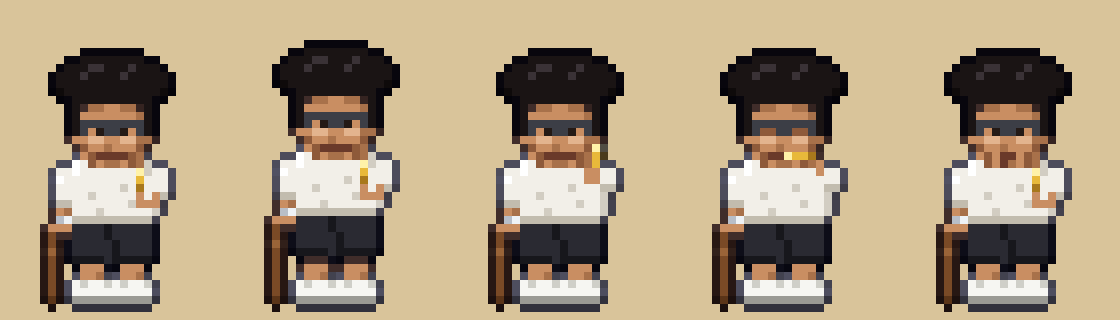
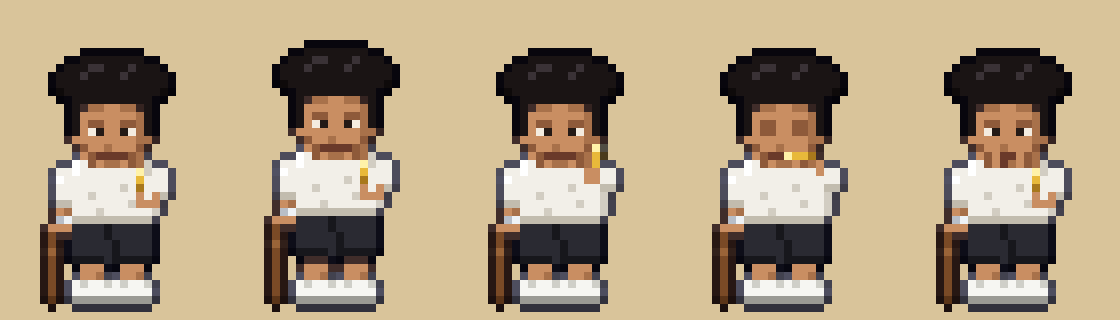
Jao v5: no glasses [skip ci]
Claude-Session: https://claude.ai/code/session_01DcRsQ77FYXtVXyNejf31QG

diff --git a/tools/jao.py b/tools/jao.py
@@ -70,15 +70,12 @@ def jao(pose):
     X(4, 7 + H, Q['wr']); X(11, 7 + H, Q['wr'])
     X(5, 8 + H, Q['wr']); X(10, 8 + H, Q['wr']); X(5, 9 + H, Q['wr']); X(10, 9 + H, Q['wr'])
     X(7, 9 + H, Q['skinS']); X(8, 9 + H, Q['skinS'])
-    # square glasses (eyes inside)
-    for x0 in (4, 8):
-        for x in range(x0, x0 + 4): X(x, 4 + H, GL)               # top bar
-        X(x0, 5 + H, GL); X(x0 + 3, 5 + H, GL)                      # sides (skin shows inside)
-        X(x0 + 1, 6 + H, C('#e3b48e')); X(x0 + 2, 6 + H, C('#e3b48e'))   # lens glint on the cheek
+    # eyes (no glasses): heavy lids over small dark eyes
+    R(5, 4 + H, 2, 1, Q['wr']); R(9, 4 + H, 2, 1, Q['wr'])
     if pose == 'inhale':
-        X(5, 5 + H, Q['wr']); X(6, 5 + H, Q['wr']); X(9, 5 + H, Q['wr']); X(10, 5 + H, Q['wr'])   # eyes shut
+        R(5, 5 + H, 2, 1, Q['wr']); R(9, 5 + H, 2, 1, Q['wr'])             # eyes shut
     else:
-        X(6, 5 + H, Q['eye']); X(9, 5 + H, Q['eye'])
+        X(6, 5 + H, Q['eye']); X(9, 5 + H, Q['eye']); X(5, 5 + H, C('#f4ece0')); X(10, 5 + H, C('#f4ece0'))
     X(7, 7 + H, Q['skinS'])                                                  # nose
     if pose == 'exhale': R(7, 8 + H, 2, 1, Q['mouth']); X(7, 9 + H, Q['mouth'])
     else: R(6, 8 + H, 4, 1, Q['mouth'])

diff --git a/docs/BUGS.md b/docs/BUGS.md
@@ -71,7 +71,7 @@
 - **Animal shop:** buy animals for the Barn Ranch; on buying, a prompt asks you to name the animal.
 
 ### Jao: market NPC (concept, user's idea)
-- **Name: Jao.** A very old man: thick black hair, deep wrinkles, square glasses, **hunched back** (head sunk into the shoulders). White collared sweater with 3/4 sleeves, a **silver watch**, knee-length black shorts, white shoes. **Cane** in his left hand, a short **gold vape stick** (no glow) in his right. Now and then he inhales (eyes shut) and puffs out a big cloud; **smoke always lingers** around him.
+- **Name: Jao.** A very old man: thick black hair, deep wrinkles, no glasses, **hunched back** (head sunk into the shoulders). White collared sweater with 3/4 sleeves, a **silver watch**, knee-length black shorts, white shoes. **Cane** in his left hand, a short **gold vape stick** (no glow) in his right. Now and then he inhales (eyes shut) and puffs out a big cloud; **smoke always lingers** around him.
 - **Not the seller.** The stalls handle buying/selling. Jao just hangs around the market and gives a random "dumb philosophy" quote when you talk to him, and says a line after you close a sell menu.
 - **Quotes are not fish-related.** Internet-style fake-deep lines plus real wisdom that sounds dumb. Original lines only (not copied memes).
 - Draft sprite: `assets/characters/jao/jao_draft.gif`, `jao_frames.png` (`tools/jao.py`): idle, breath, raise, inhale, exhale.
